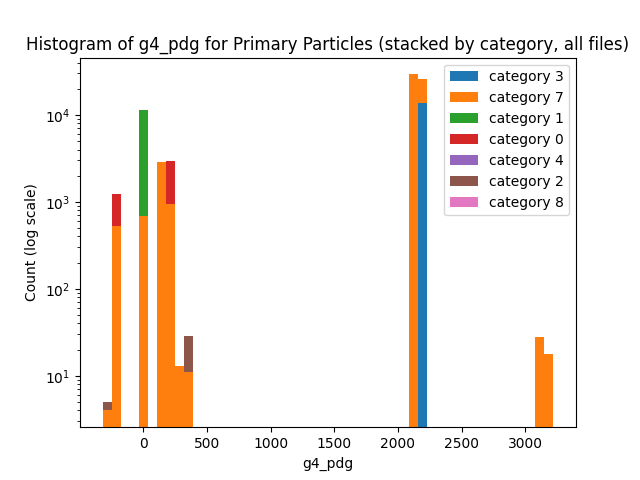
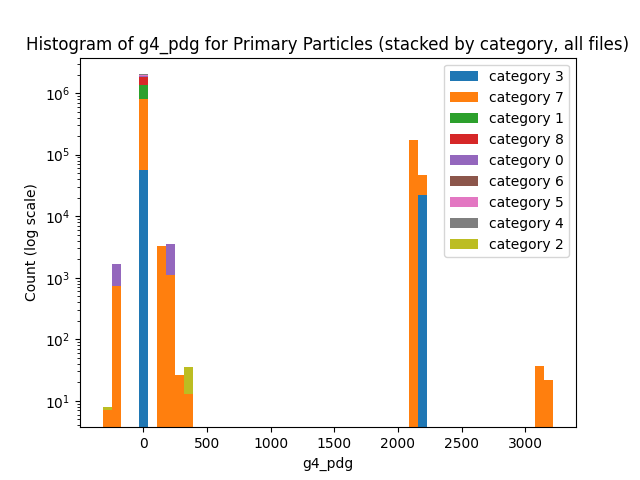
Update data processing to include all primary particles and enhance g4_pdg value reporting

diff --git a/explore_topology.py b/explore_topology.py
@@ -22,7 +22,8 @@ for file_path in file_list:
         f.add_group(t)
     f.read_data(0, len(f))
     parts = f.get_dataframe_evt('particle_table')
-    primaries = parts.loc[parts['start_process'] == b'primary'].copy()
+    # primaries = parts.loc[parts['start_process'] == b'primary'].copy()
+    primaries = parts
     all_primaries.append(primaries)
 
 # Remove empty DataFrames
@@ -65,7 +66,10 @@ except Exception as e:
     raise
 
 # Print all unique g4_pdg values in the primaries DataFrame
-print("Unique g4_pdg values:", all_primaries_df['g4_pdg'].unique())
+unique_pdg, counts = np.unique(all_primaries_df['g4_pdg'], return_counts=True)
+print("Unique g4_pdg values and their frequencies:")
+for pdg, count in zip(unique_pdg, counts):
+    print(f"  {pdg}: {count}")
 
 # Prepare data for stacked histogram: group by g4_pdg and category
 pdg_values = all_primaries_df['g4_pdg'].unique()
